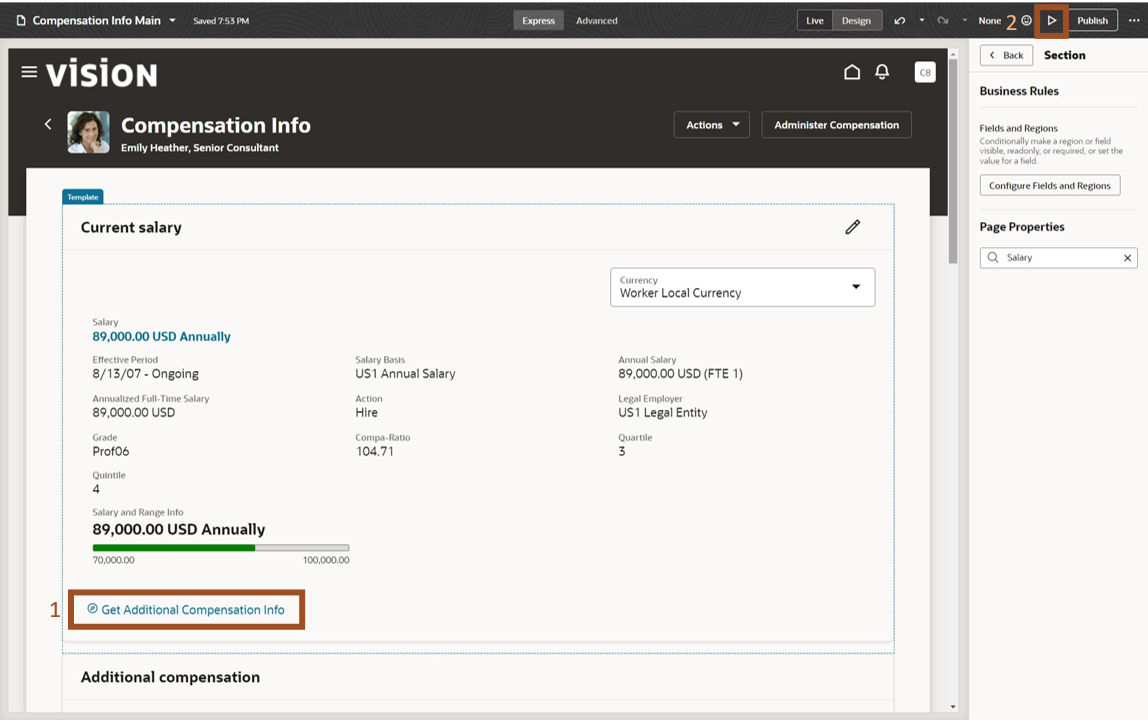
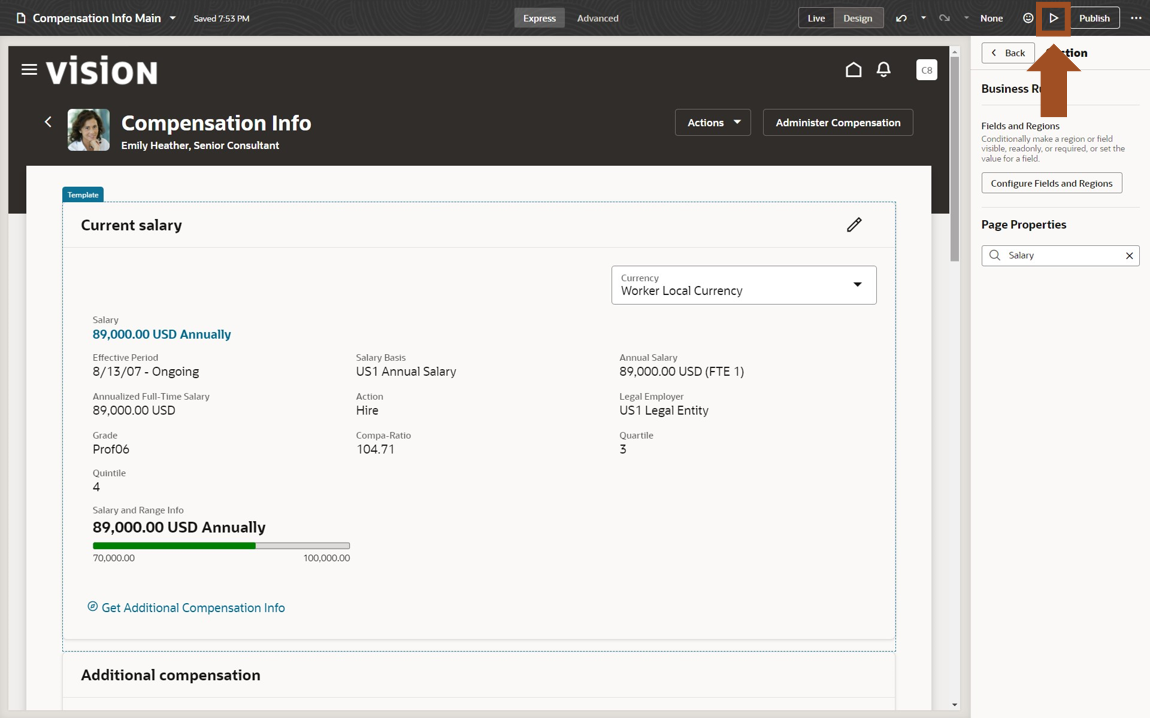
changes to extend more

diff --git a/apps-cloud-adventure-cio/04-extend-more/extend-more.md b/apps-cloud-adventure-cio/04-extend-more/extend-more.md
@@ -78,7 +78,7 @@ As you follow along, do not forget to answer the Adventure Check Point questions
 6. You can now define your new task and leverage the task type User Defined Content. This will allow you to reference the REST Integration that was discussed at the beginning of the adventure.  It will link to a pre-configured Generative AI LLM endpoint.
 
    > Complete the following fields as shown: <br>
-   > &emsp;&#8226;&emsp;Name(1): Type **Compensation Benchmarking**<br>
+   > &emsp;&#8226;&emsp;Name(1): Type **Get Additional Compensation Info**<br>
    > &emsp;&#8226;&emsp;Task Type(2): Select **User Defined Content** from the dropdown<br>
    > &emsp;&#8226;&emsp;Configuration(3): Select **HCM&#95;GJ&#95;GenAI&#95;OCILlama3&#95;Endpoint** from the dropdown <br>
    > (4) Click the **Save and Close** button.
@@ -139,17 +139,16 @@ As you follow along, do not forget to answer the Adventure Check Point questions
    ![Create Task](images/image113.png)  
 <br>
 
-14. You will now see the Compensation Benchmarking link available on the screen.  If you recall, Compensation Benchmarking as the name of the Task we defined earlier and is your link to the User Defined Configuration call to the LLM.
-
-   > (1) Confirm that the **Compensation Benchmarking** link is now visible. <br>    
-   > (2) Click the **Preview** ![Preview](images/icon016_preview.png) icon in the top right of the screen.
+14. You will now see the Get Additional Compensation Info link available on the screen.  If you recall, this was the name of the Task we defined earlier and is your link to the User Defined Configuration call to the LLM.
+ 
+   > Click the **Preview** ![Preview](images/icon016_preview.png) icon in the top right of the screen.
 
    ![Create Task](images/image114.png)  
 <br>
 
 15. The Preview should open in a new browser tab.  You can now see our screen in Preview Mode.  It shows the standard screen layout, but also includes your Guided Journey configuration.  Please note that these configurations are automatically maintained during the Oracle Release Update process.  These are not Customizations.
 
-   > (1) Click the **Compensation Benchmarking** link. 
+   > (1) Click the **Get Additional Compensation Info** link. 
 
    ![Create Task](images/image115.png)  
 <br>
